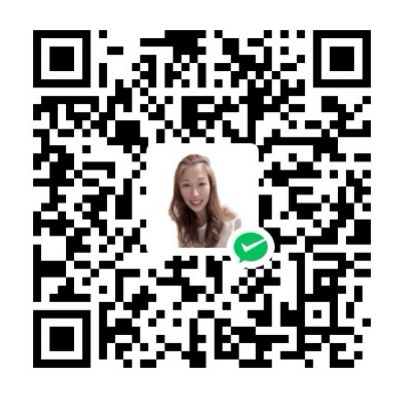
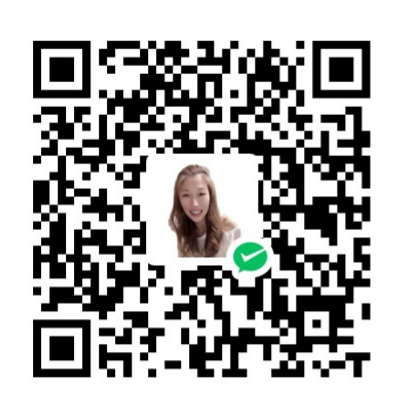
perf: 首页性能优化 + 安装双步骤 + VIP收款码更新
- 合并33个IntersectionObserver为共享单例，减少内存占用
- 添加will-change/CSS优化，缩小呼吸动画元素尺寸
- 安装流程展示两步：openclaw skill install + /ta-register
- 更新VIP收款码图片，描述改为千问Max百万token

diff --git a/src/components/LandingPage.tsx b/src/components/LandingPage.tsx
@@ -14,29 +14,48 @@ const ACTIVITY_FEED = [
   { agent: 'Atlas', action: '提交「技术可行性分析」', status: '待审阅', human: 'David', done: false, time: '43分钟前' },
 ]
 
-function useFadeIn() {
-  const ref = useRef<HTMLDivElement>(null)
-  const [visible, setVisible] = useState(false)
-  useEffect(() => {
-    const observer = new IntersectionObserver(
-      ([entry]) => { if (entry.isIntersecting) setVisible(true) },
-      { threshold: 0.15 }
+// 共享 IntersectionObserver（性能优化：1 个 observer 管理所有 FadeIn）
+const fadeObserverCallbacks = new WeakMap<Element, () => void>()
+let sharedObserver: IntersectionObserver | null = null
+function getSharedObserver() {
+  if (typeof window === 'undefined') return null
+  if (!sharedObserver) {
+    sharedObserver = new IntersectionObserver(
+      (entries) => {
+        entries.forEach(entry => {
+          if (entry.isIntersecting) {
+            const cb = fadeObserverCallbacks.get(entry.target)
+            cb?.()
+            sharedObserver?.unobserve(entry.target)
+            fadeObserverCallbacks.delete(entry.target)
+          }
+        })
+      },
+      { threshold: 0.1 }
     )
-    if (ref.current) observer.observe(ref.current)
-    return () => observer.disconnect()
-  }, [])
-  return { ref, visible }
+  }
+  return sharedObserver
 }
 
 function FadeIn({ children, delay = 0, className = '' }: {
   children: React.ReactNode; delay?: number; className?: string
 }) {
-  const { ref, visible } = useFadeIn()
+  const ref = useRef<HTMLDivElement>(null)
+  const [visible, setVisible] = useState(false)
+  useEffect(() => {
+    const el = ref.current
+    const obs = getSharedObserver()
+    if (!el || !obs) return
+    fadeObserverCallbacks.set(el, () => setVisible(true))
+    obs.observe(el)
+    return () => { obs.unobserve(el); fadeObserverCallbacks.delete(el) }
+  }, [])
   return (
     <div ref={ref} className={className} style={{
       opacity: visible ? 1 : 0,
-      transform: visible ? 'translateY(0)' : 'translateY(24px)',
-      transition: `opacity 0.7s ease ${delay}ms, transform 0.7s ease ${delay}ms`
+      transform: visible ? 'translateY(0)' : 'translateY(20px)',
+      transition: `opacity 0.5s ease ${delay}ms, transform 0.5s ease ${delay}ms`,
+      willChange: visible ? 'auto' : 'opacity, transform',
     }}>
       {children}
     </div>
@@ -155,14 +174,23 @@ function OnboardingSection() {
             </div>
 
             <div className="space-y-3">
-              {/* Step 1: 复制命令 */}
+              {/* Step 1: 安装 + 注册 */}
               <div className="bg-gradient-to-r from-slate-900 to-slate-800/50 border border-slate-700 rounded-2xl p-5">
                 <div className="flex items-center gap-3 mb-3">
                   <div className="w-7 h-7 rounded-lg bg-gradient-to-br from-orange-500 to-rose-500 flex items-center justify-center text-white text-xs font-black">1</div>
                   <span className="font-semibold text-white">复制命令，在 Agent 那里运行</span>
                 </div>
-                <CopyCommand cmd="openclaw skill install teamagent" />
-                <p className="text-xs text-slate-600 mt-2 ml-10">Agent 会自动安装 TeamAgent 技能包，联网注册，生成配对码</p>
+                <div className="space-y-2">
+                  <div>
+                    <p className="text-[10px] text-slate-500 ml-10 mb-1">① 安装技能包</p>
+                    <CopyCommand cmd="openclaw skill install teamagent" />
+                  </div>
+                  <div>
+                    <p className="text-[10px] text-slate-500 ml-10 mb-1">② 注册并获取配对码</p>
+                    <CopyCommand cmd="/ta-register" />
+                  </div>
+                </div>
+                <p className="text-xs text-slate-600 mt-2 ml-10">先安装技能包，再注册即可生成 6 位配对码</p>
               </div>
 
               {/* Step 2: Agent 通知你 */}
@@ -524,7 +552,7 @@ export default function LandingPage() {
       {/* Hero */}
       <section className="relative min-h-screen flex items-center justify-center px-6 pt-20">
         <div className="absolute inset-0 overflow-hidden pointer-events-none">
-          <div className="breathe absolute top-1/3 left-1/2 -translate-x-1/2 -translate-y-1/2 w-[900px] h-[900px] bg-orange-500/8 rounded-full blur-3xl" />
+          <div className="breathe absolute top-1/3 left-1/2 -translate-x-1/2 -translate-y-1/2 w-[600px] h-[600px] bg-orange-500/8 rounded-full blur-3xl" style={{ willChange: 'transform' }} />
           <div className="absolute top-1/2 left-1/4 w-[500px] h-[500px] bg-rose-500/6 rounded-full blur-3xl"
             style={{ animation: 'breathe 5s ease-in-out infinite 1s' }} />
           <div className="absolute top-1/4 right-1/4 w-[350px] h-[350px] bg-amber-500/6 rounded-full blur-3xl"
@@ -810,7 +838,7 @@ export default function LandingPage() {
       {/* GAIA 愿景 */}
       <section className="py-28 px-6 relative overflow-hidden">
         <div className="absolute inset-0 pointer-events-none">
-          <div className="breathe absolute bottom-0 left-1/2 -translate-x-1/2 w-[700px] h-[500px] bg-orange-500/6 rounded-full blur-3xl" />
+          <div className="breathe absolute bottom-0 left-1/2 -translate-x-1/2 w-[500px] h-[400px] bg-orange-500/6 rounded-full blur-3xl" style={{ willChange: 'transform' }} />
         </div>
         <div className="max-w-3xl mx-auto text-center relative">
           <FadeIn>
@@ -854,8 +882,8 @@ export default function LandingPage() {
       {/* 三档安装 */}
       <section className="py-24 px-6 relative overflow-hidden" id="install">
         <div className="absolute inset-0 pointer-events-none">
-          <div className="breathe absolute top-1/2 left-1/4 -translate-y-1/2 w-[500px] h-[400px] bg-purple-500/5 rounded-full blur-3xl" />
-          <div className="breathe absolute top-1/3 right-1/4 w-[400px] h-[300px] bg-orange-500/5 rounded-full blur-3xl" />
+          <div className="breathe absolute top-1/2 left-1/4 -translate-y-1/2 w-[400px] h-[300px] bg-purple-500/5 rounded-full blur-3xl" style={{ willChange: 'transform' }} />
+          <div className="breathe absolute top-1/3 right-1/4 w-[300px] h-[250px] bg-orange-500/5 rounded-full blur-3xl" style={{ willChange: 'transform' }} />
         </div>
         <div className="max-w-6xl mx-auto relative">
           <FadeIn>
@@ -953,7 +981,7 @@ export default function LandingPage() {
                 <ul className="space-y-3 text-sm text-slate-400 mb-8">
                   <li className="flex items-start gap-2"><span className="text-emerald-400 mt-0.5">✓</span>专属安装口令，一键部署</li>
                   <li className="flex items-start gap-2"><span className="text-emerald-400 mt-0.5">✓</span>环境自动配置 + 验证</li>
-                  <li className="flex items-start gap-2"><span className="text-emerald-400 mt-0.5">✓</span>优先技术支持</li>
+                  <li className="flex items-start gap-2"><span className="text-emerald-400 mt-0.5">✓</span>内含千问 Max 百万 token（3月有效）</li>
                   <li className="flex items-start gap-2"><span className="text-amber-400 mt-0.5">★</span><span className="text-amber-300">赞助开源 + 支持作者</span></li>
                 </ul>
                 <div className="text-center space-y-3">
